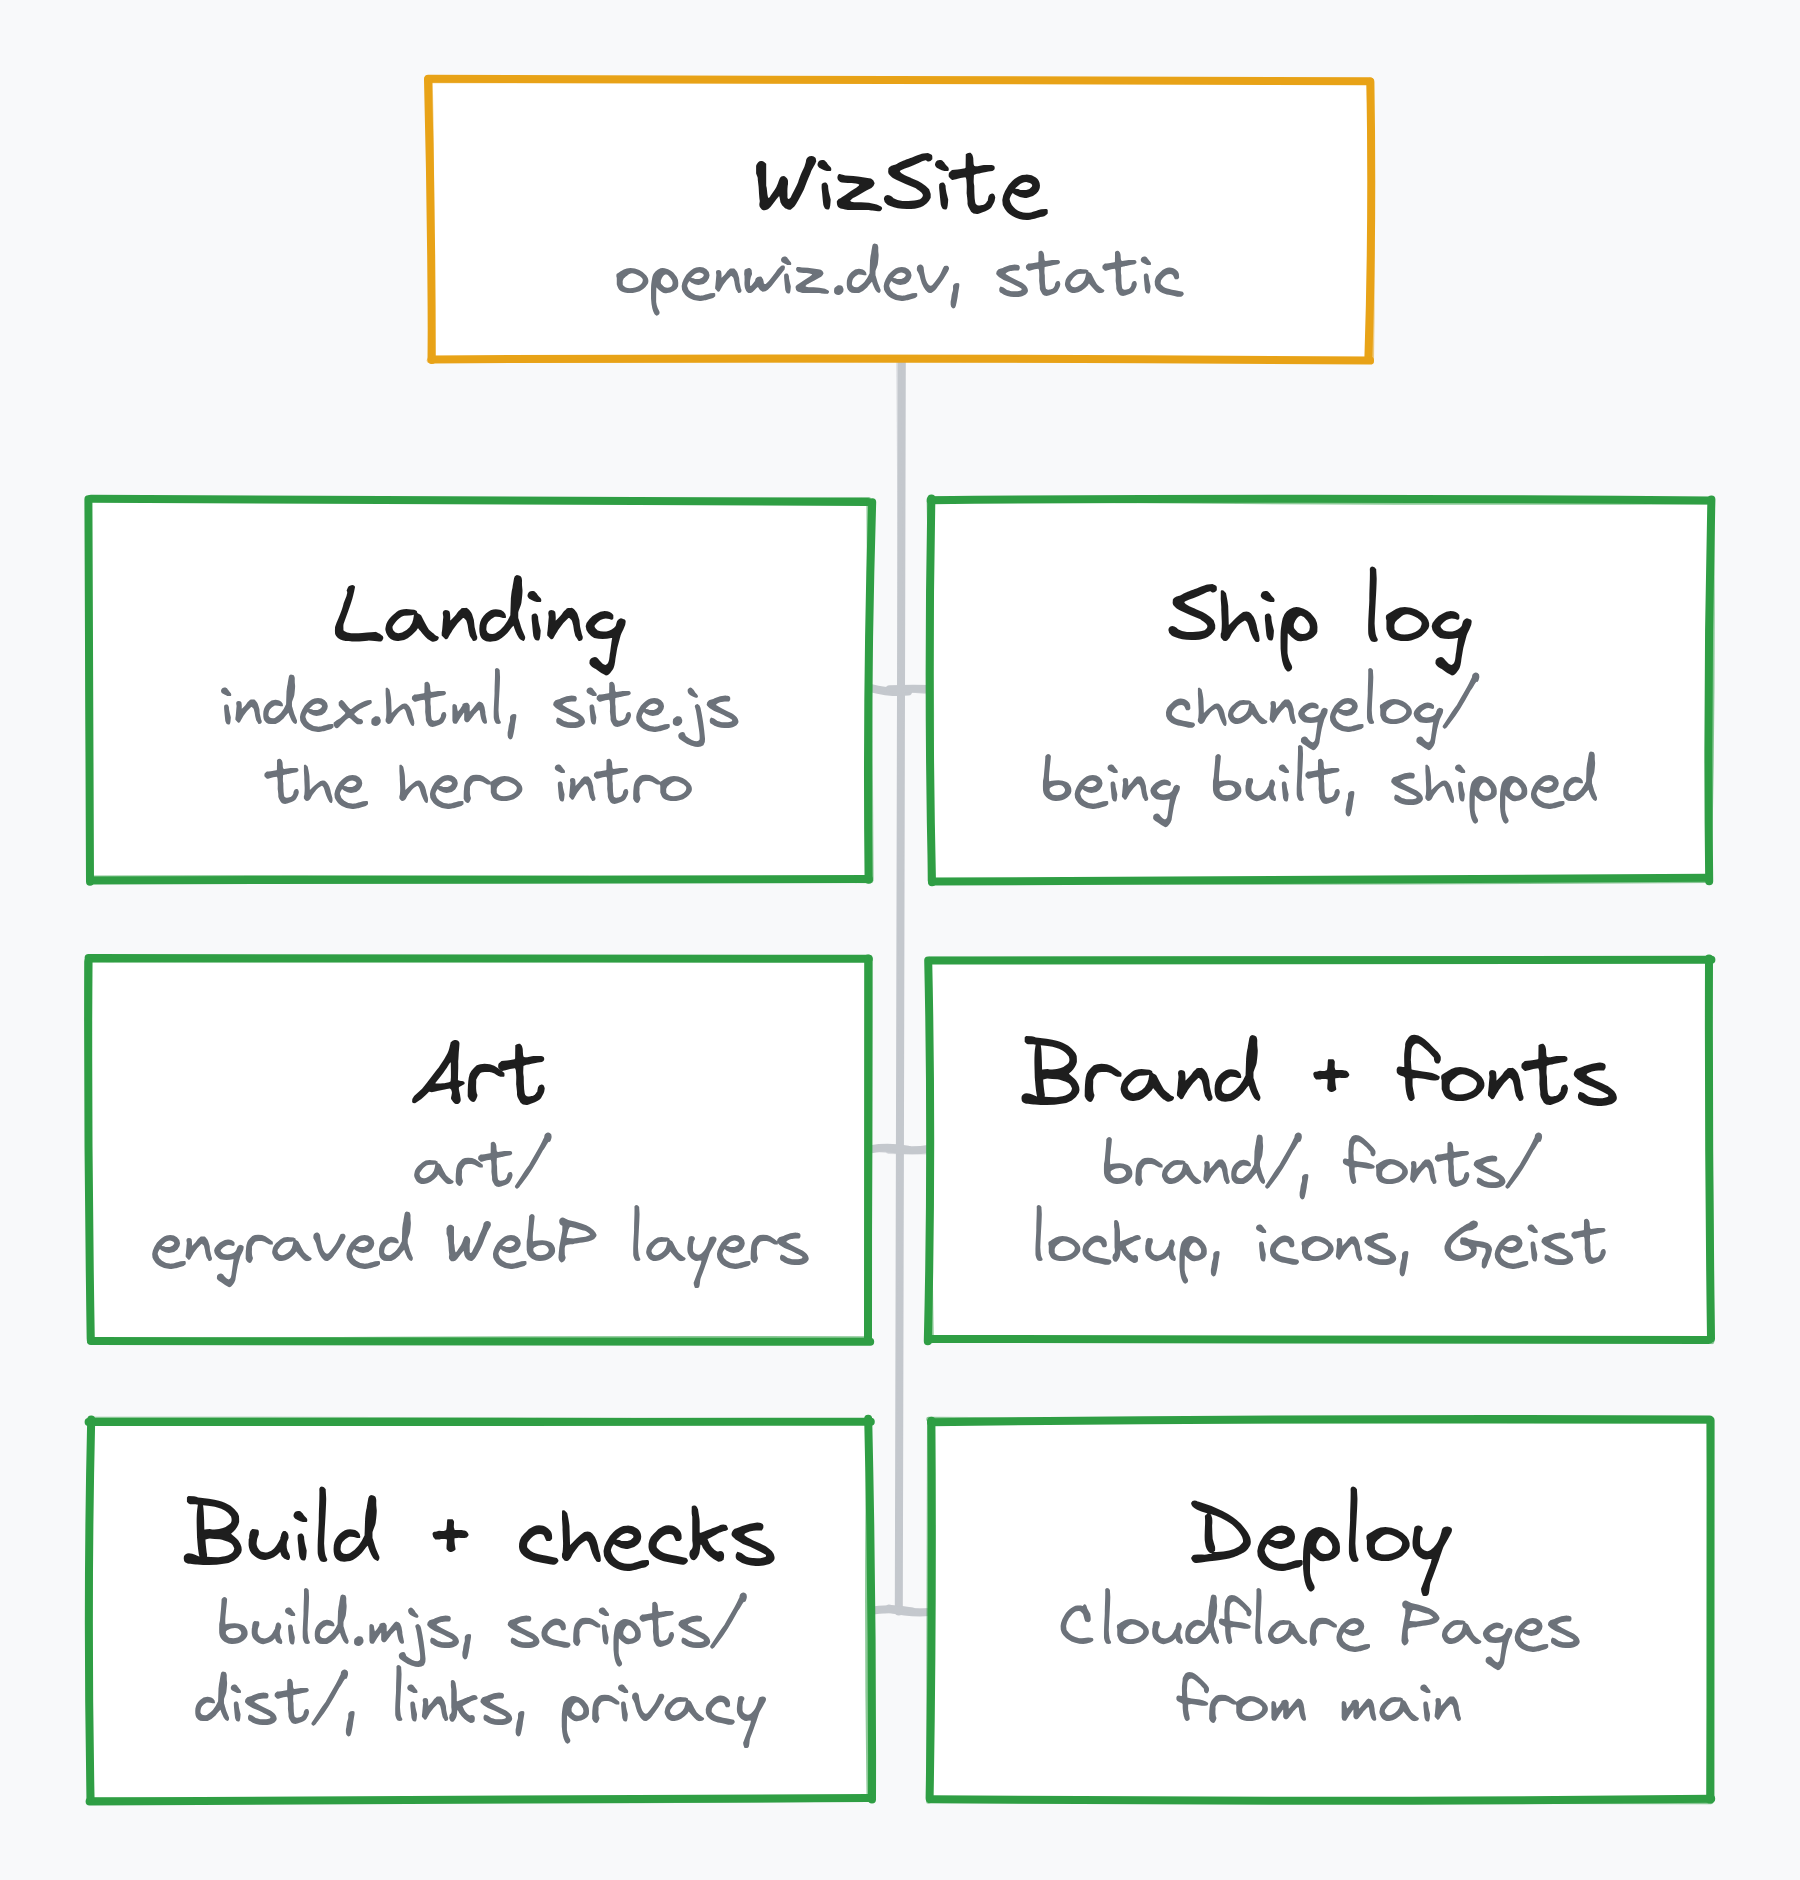
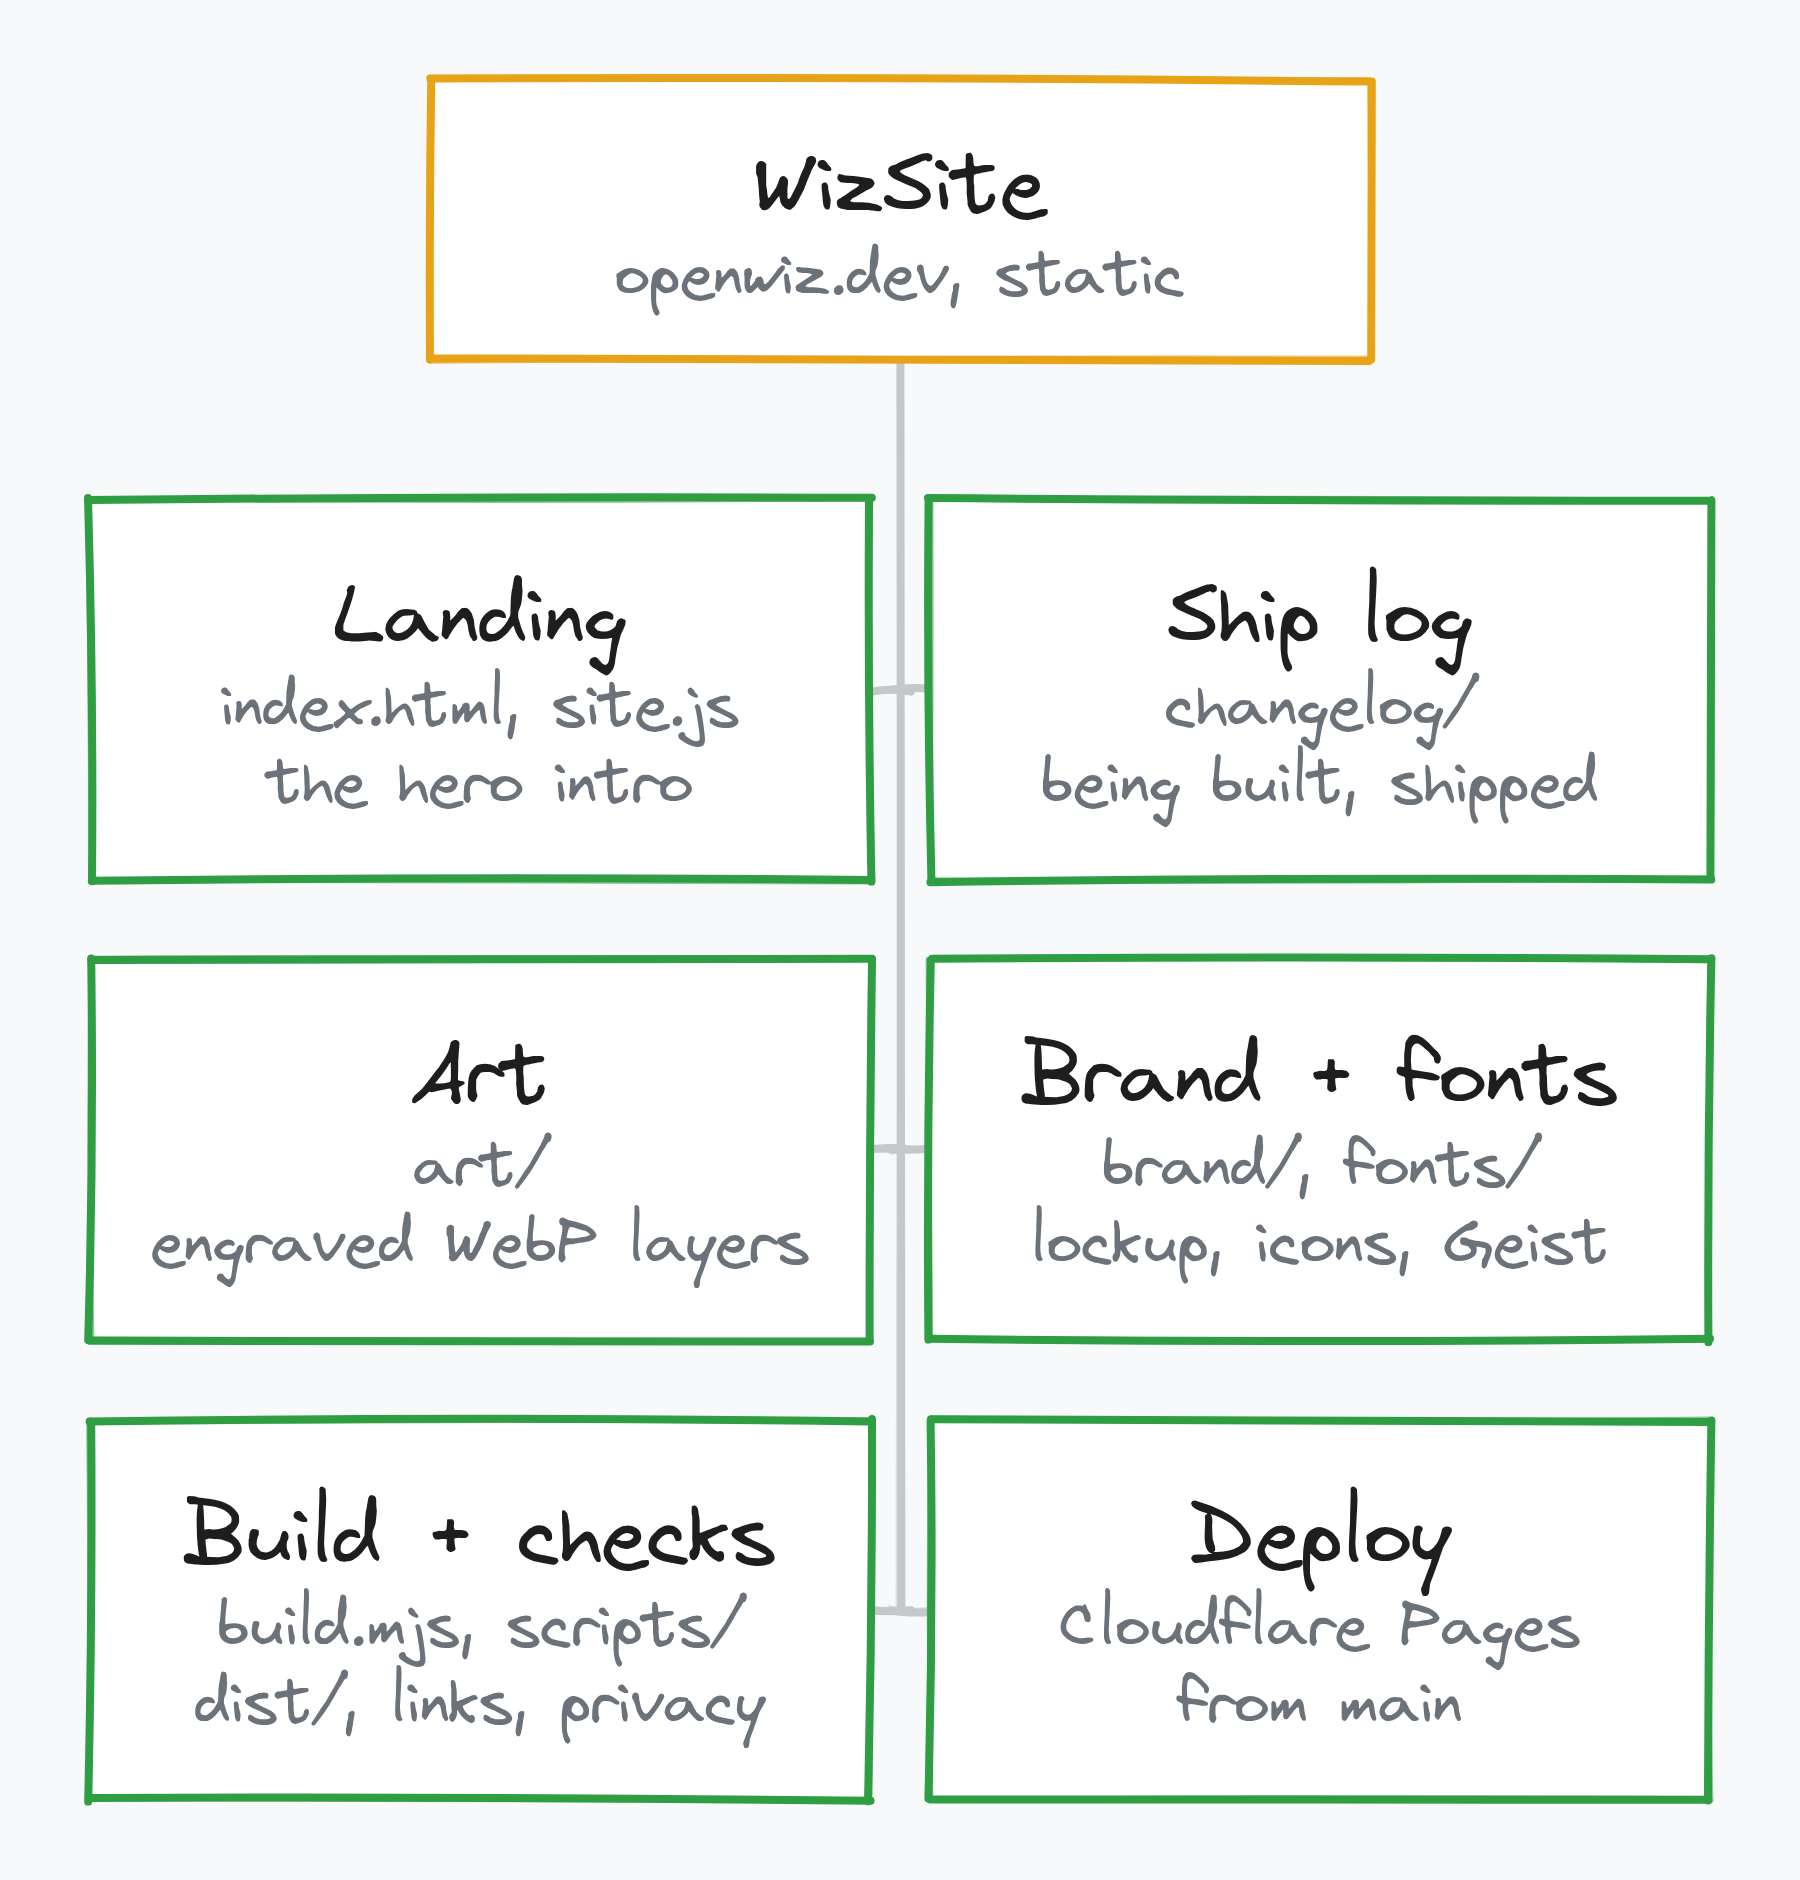
README map: a one-column picture for phones

diff --git a/scripts/check.py b/scripts/check.py
@@ -40,7 +40,8 @@ ICON_HASHES = {
 }
 # README pictures: kept in the source for GitHub only, never built or served. Pinned like the icons.
 DOC_HASHES = {
[3 lines of base64/hex data omitted]
 }
 # Vector logos: the wordmark is outlined (paths), so no font ships and nothing can fall back to another font.
 VECTORS = ('favicon.svg', 'brand/openwiz-lockup.svg')

diff --git a/README.md b/README.md
@@ -4,7 +4,10 @@ The standalone static site for [OpenWiz](https://github.com/openwizdev/openwiz),
 
 ## Map
 
-![WizSite's parts: the landing page, the ship log, the art, the brand and fonts, the build and checks, and the deploy](docs/map.png)
+<picture>
+  <source media="(max-width: 600px)" srcset="docs/map-phone.png">
+  <img alt="WizSite's parts: the landing page, the ship log, the art, the brand and fonts, the build and checks, and the deploy" src="docs/map.png" width="560">
+</picture>
 
 WizSite is the factory's site, openwiz.dev. The [org map](https://github.com/openwizdev) shows how it fits with the other repos.
 
@@ -42,7 +45,7 @@ The hero's intro plays once: CSS runs the build beats (the idea, a 3-question gr
 
 The logo files are the favicons (`favicon.ico` with 16, 32 and 48 px images, `favicon.svg`, `apple-touch-icon.png`), the header lockup `brand/openwiz-lockup.svg` and the 1200×630 social card `brand/og.png` (the lockup on the site ground, rendered from the SVG). The lockup's wordmark is converted to outlines: the SVG has no text and no font reference, and the check refuses one that does, so the wordmark font never ships.
 
-The README's map, `docs/map.png`, is for GitHub only: the build never copies it, and the check pins it by hash in `DOC_HASHES` like the icons. Its source is `maps/draw.mjs` in `openwizdev/.github`.
+The README's map (`docs/map.png`, and `docs/map-phone.png` for narrow screens) is for GitHub only: the build never copies it, and the check pins both by hash in `DOC_HASHES` like the icons. Its source is `maps/draw.mjs` in `openwizdev/.github`.
 
 The Geist and Geist Mono fonts ship unmodified with `fonts/OFL.txt`. Keep the licence in source and the static export. The build does not fetch fonts from an external service.
 
